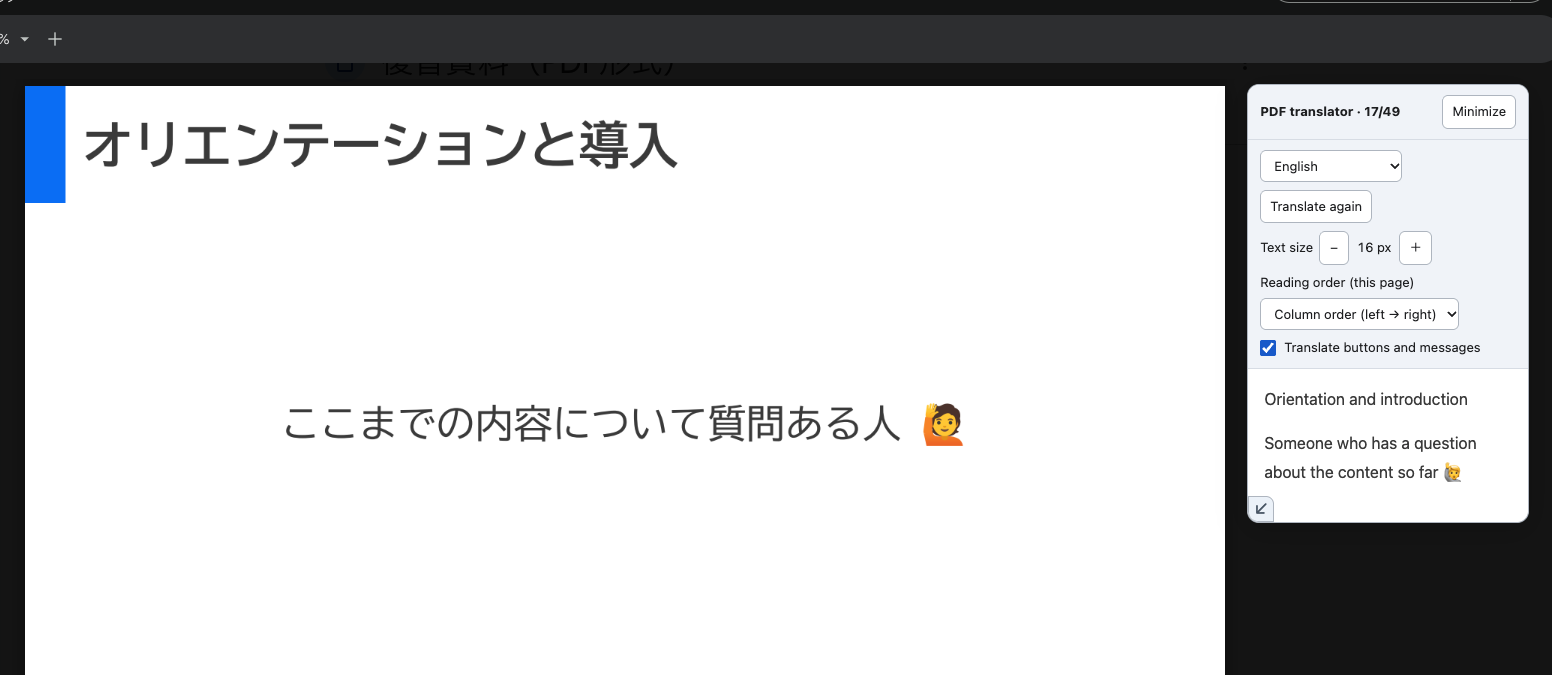
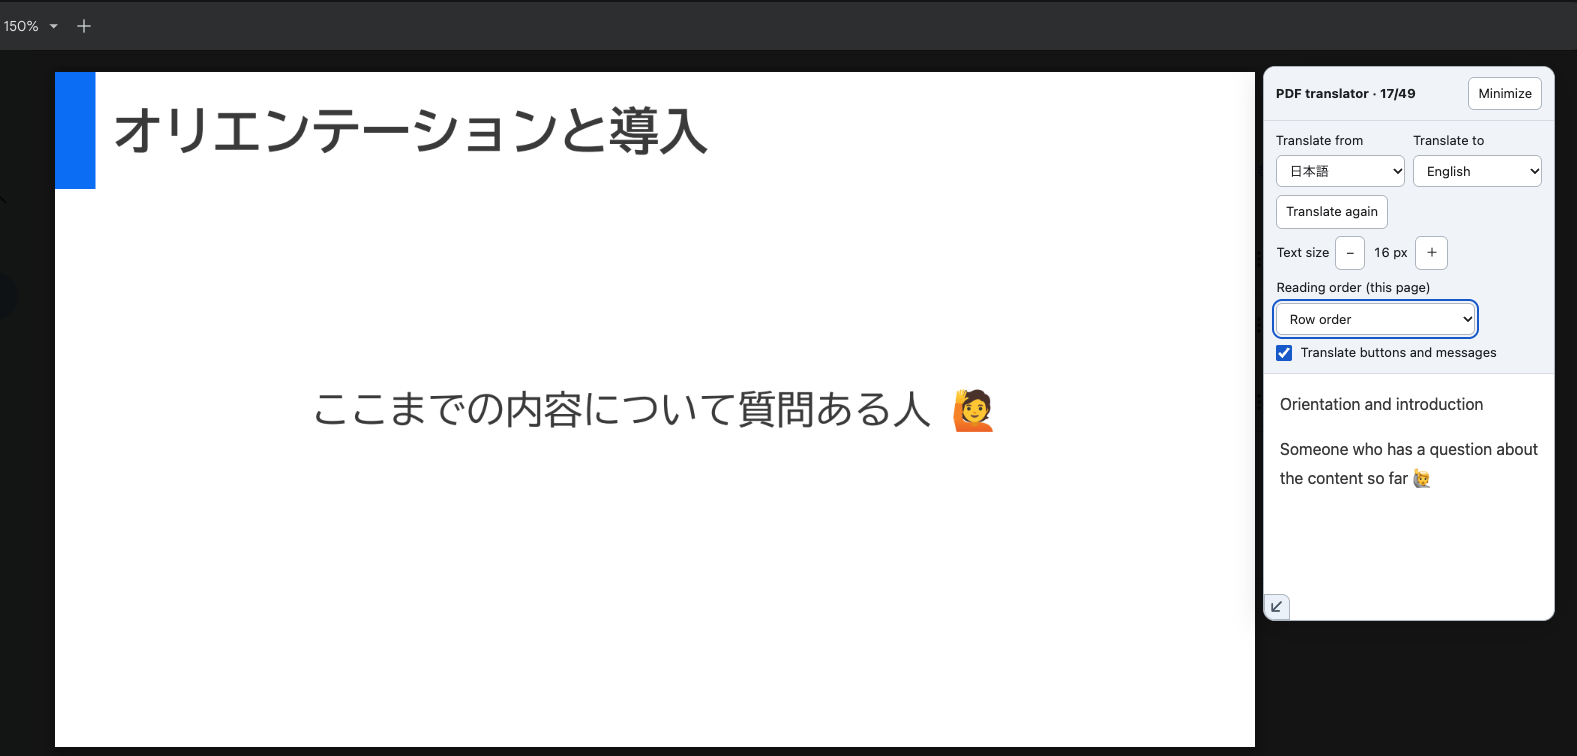
Refresh the PDF translation example for source-language controls

Changed region(s): [[0.0, 0.0, 1.0, 1.0], [0.1856, 0.4978, 0.6495, 0.6844]]

diff --git a/index.html b/index.html
@@ -4308,8 +4308,8 @@ SOFTWARE.
 </ol>
 <p class="small">画像だけで構成されたPDFには対応していません。</p>
 <figure class="panel-example" id="pdf-panel-example">
-<figcaption><strong>翻訳パネルの表示例</strong><p class="small">PDFを英語に翻訳している例です（画像は以前のバージョンのため、翻訳元の選択欄は写っていません）。元の資料を開いたまま、右側のパネルに本文の訳文が表示されていれば、翻訳できています。</p></figcaption>
-<a class="panel-example-image" href="guide-assets/pdf-translation-panel-example.png" target="_blank" rel="noopener noreferrer" aria-label="翻訳パネルの表示例を大きく見る（新しいタブ）"><img src="guide-assets/pdf-translation-panel-example.png" width="1552" height="675" loading="lazy" alt="左側に日本語の授業PDF、右側のPDF translatorパネルに英語の訳文が表示されている例"></a>
+<figcaption><strong>翻訳パネルの表示例</strong><p class="small">翻訳元を「日本語」、翻訳先を「English」にして、PDFを英語に翻訳している例です。元の資料を開いたまま、右側のパネルに本文の訳文が表示されていれば、翻訳できています。</p></figcaption>
+<a class="panel-example-image" href="guide-assets/pdf-translation-panel-example.png?v=60b4f742e2d2" target="_blank" rel="noopener noreferrer" aria-label="翻訳パネルの表示例を大きく見る（新しいタブ）"><img src="guide-assets/pdf-translation-panel-example.png?v=60b4f742e2d2" width="1577" height="756" loading="lazy" alt="左側に日本語の授業PDF、右側のPDF translatorパネルに英語の訳文が表示されている例"></a>
 </figure>
 </article>
 <h3>どちらのツールも共通</h3>
